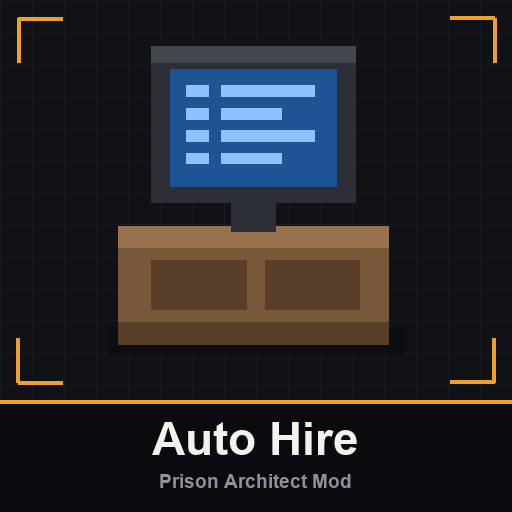
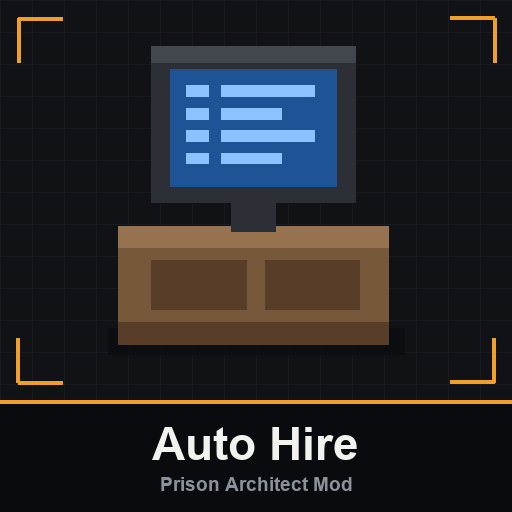
Set the card's name on one line whatever its length

Changed region(s): [[0.2812, 0.8125, 0.7188, 0.9688]]

diff --git a/tools/card.py b/tools/card.py
@@ -85,18 +85,22 @@ def face(size):
     return ImageFont.load_default(size)
 
 
-def text(label, size, colour, widest):
-    """A line of text, set smaller if it would run wider than widest."""
+def fitting(label, size, widest):
+    """The face to set a line in: smaller if it would run wider than widest."""
     probe = ImageDraw.Draw(Image.new("L", (1, 1)))
     while True:
         font = face(size)
-        left, top, right, bottom = probe.textbbox((0, 0), label, font=font)
+        left, _, right, _ = probe.textbbox((0, 0), label, font=font)
         if right - left <= widest or size <= 12:
-            break
+            return font
         size -= 2
-    line = Image.new("RGBA", (right - left + 4, bottom - top + 4), (0, 0, 0, 0))
-    ImageDraw.Draw(line).text((2 - left, 2 - top), label, font=font, fill=colour)
-    return line
+
+
+def line(draw, label, font, colour, middle):
+    """Sets a line so its capitals are centred on middle, whatever its size
+    and whether or not it has letters that hang below the line."""
+    _, top, _, bottom = font.getbbox("H", anchor="ls")
+    draw.text((SIZE // 2, middle + (bottom - top) // 2), label, font=font, fill=colour, anchor="ms")
 
 
 def brackets(draw):
@@ -123,10 +127,9 @@ def frame(art, name):
     brackets(draw)
     draw.rectangle([0, BAND_TOP, SIZE, SIZE], fill=BAND)
     draw.rectangle([0, BAND_TOP, SIZE, BAND_TOP + LINE - 1], fill=ACCENT)
-    title = text(name, TITLE_SIZE, TITLE, SIZE - 56)
-    card.alpha_composite(title, ((SIZE - title.width) // 2, BAND_TOP + 20))
-    sub = text(GAME, SUBTITLE_SIZE, SUBTITLE, SIZE - 56)
-    card.alpha_composite(sub, ((SIZE - sub.width) // 2, SIZE - 40))
+    draw = ImageDraw.Draw(card)
+    line(draw, name, fitting(name, TITLE_SIZE, SIZE - 56), TITLE, BAND_TOP + 44)
+    line(draw, GAME, fitting(GAME, SUBTITLE_SIZE, SIZE - 56), SUBTITLE, SIZE - 28)
     return card.convert("RGB")
 
 
